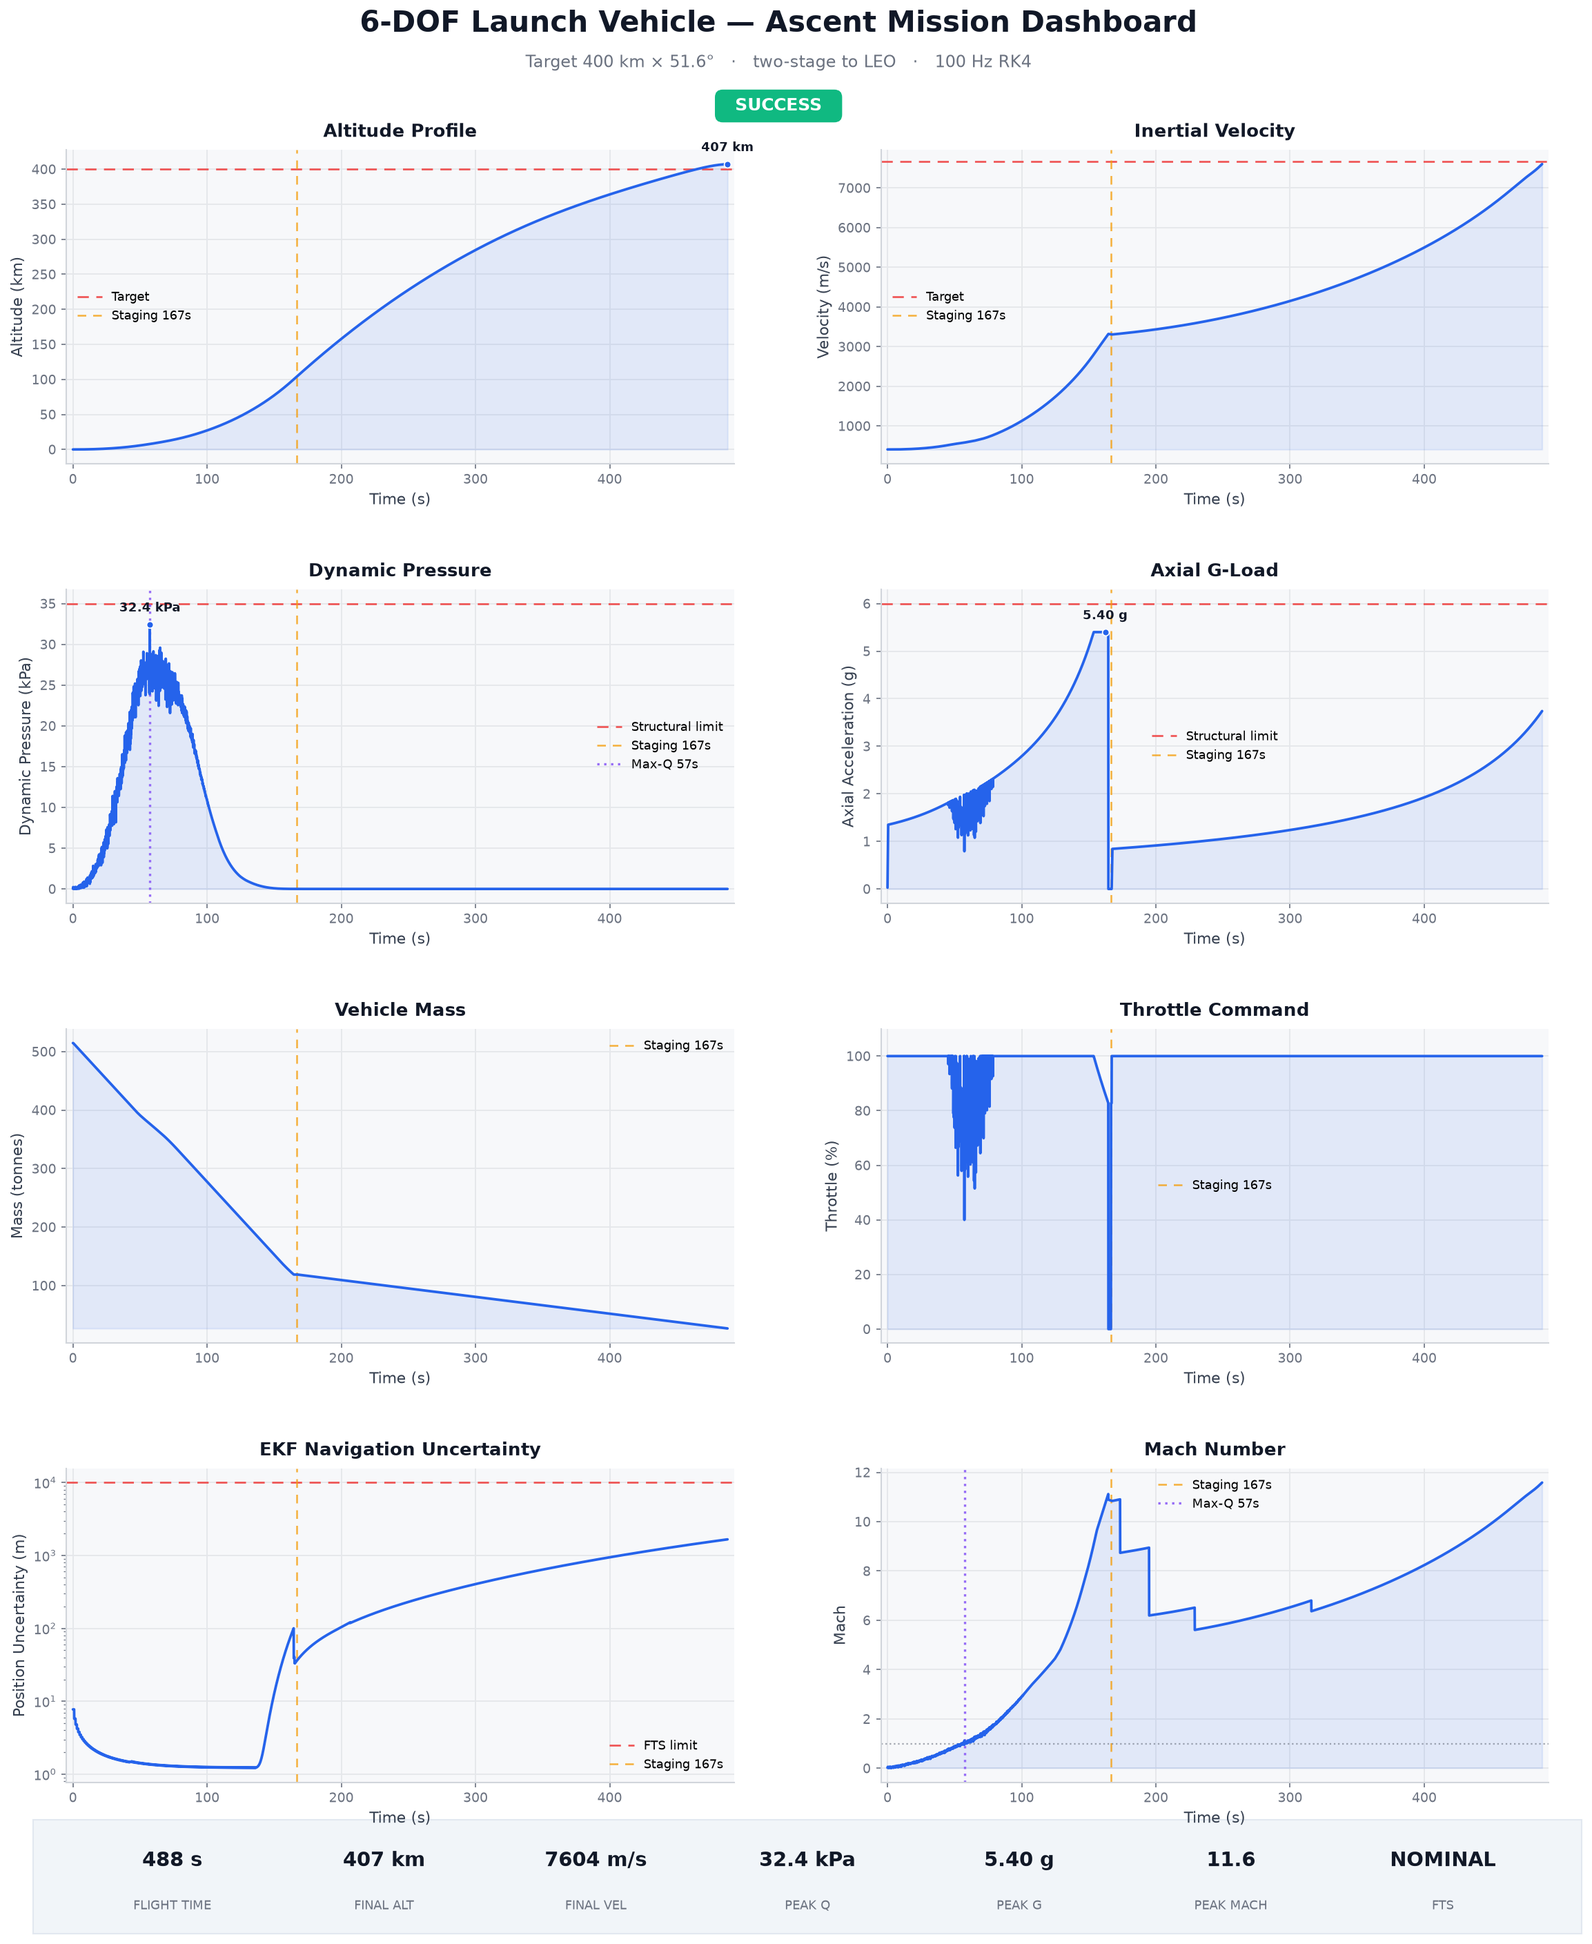
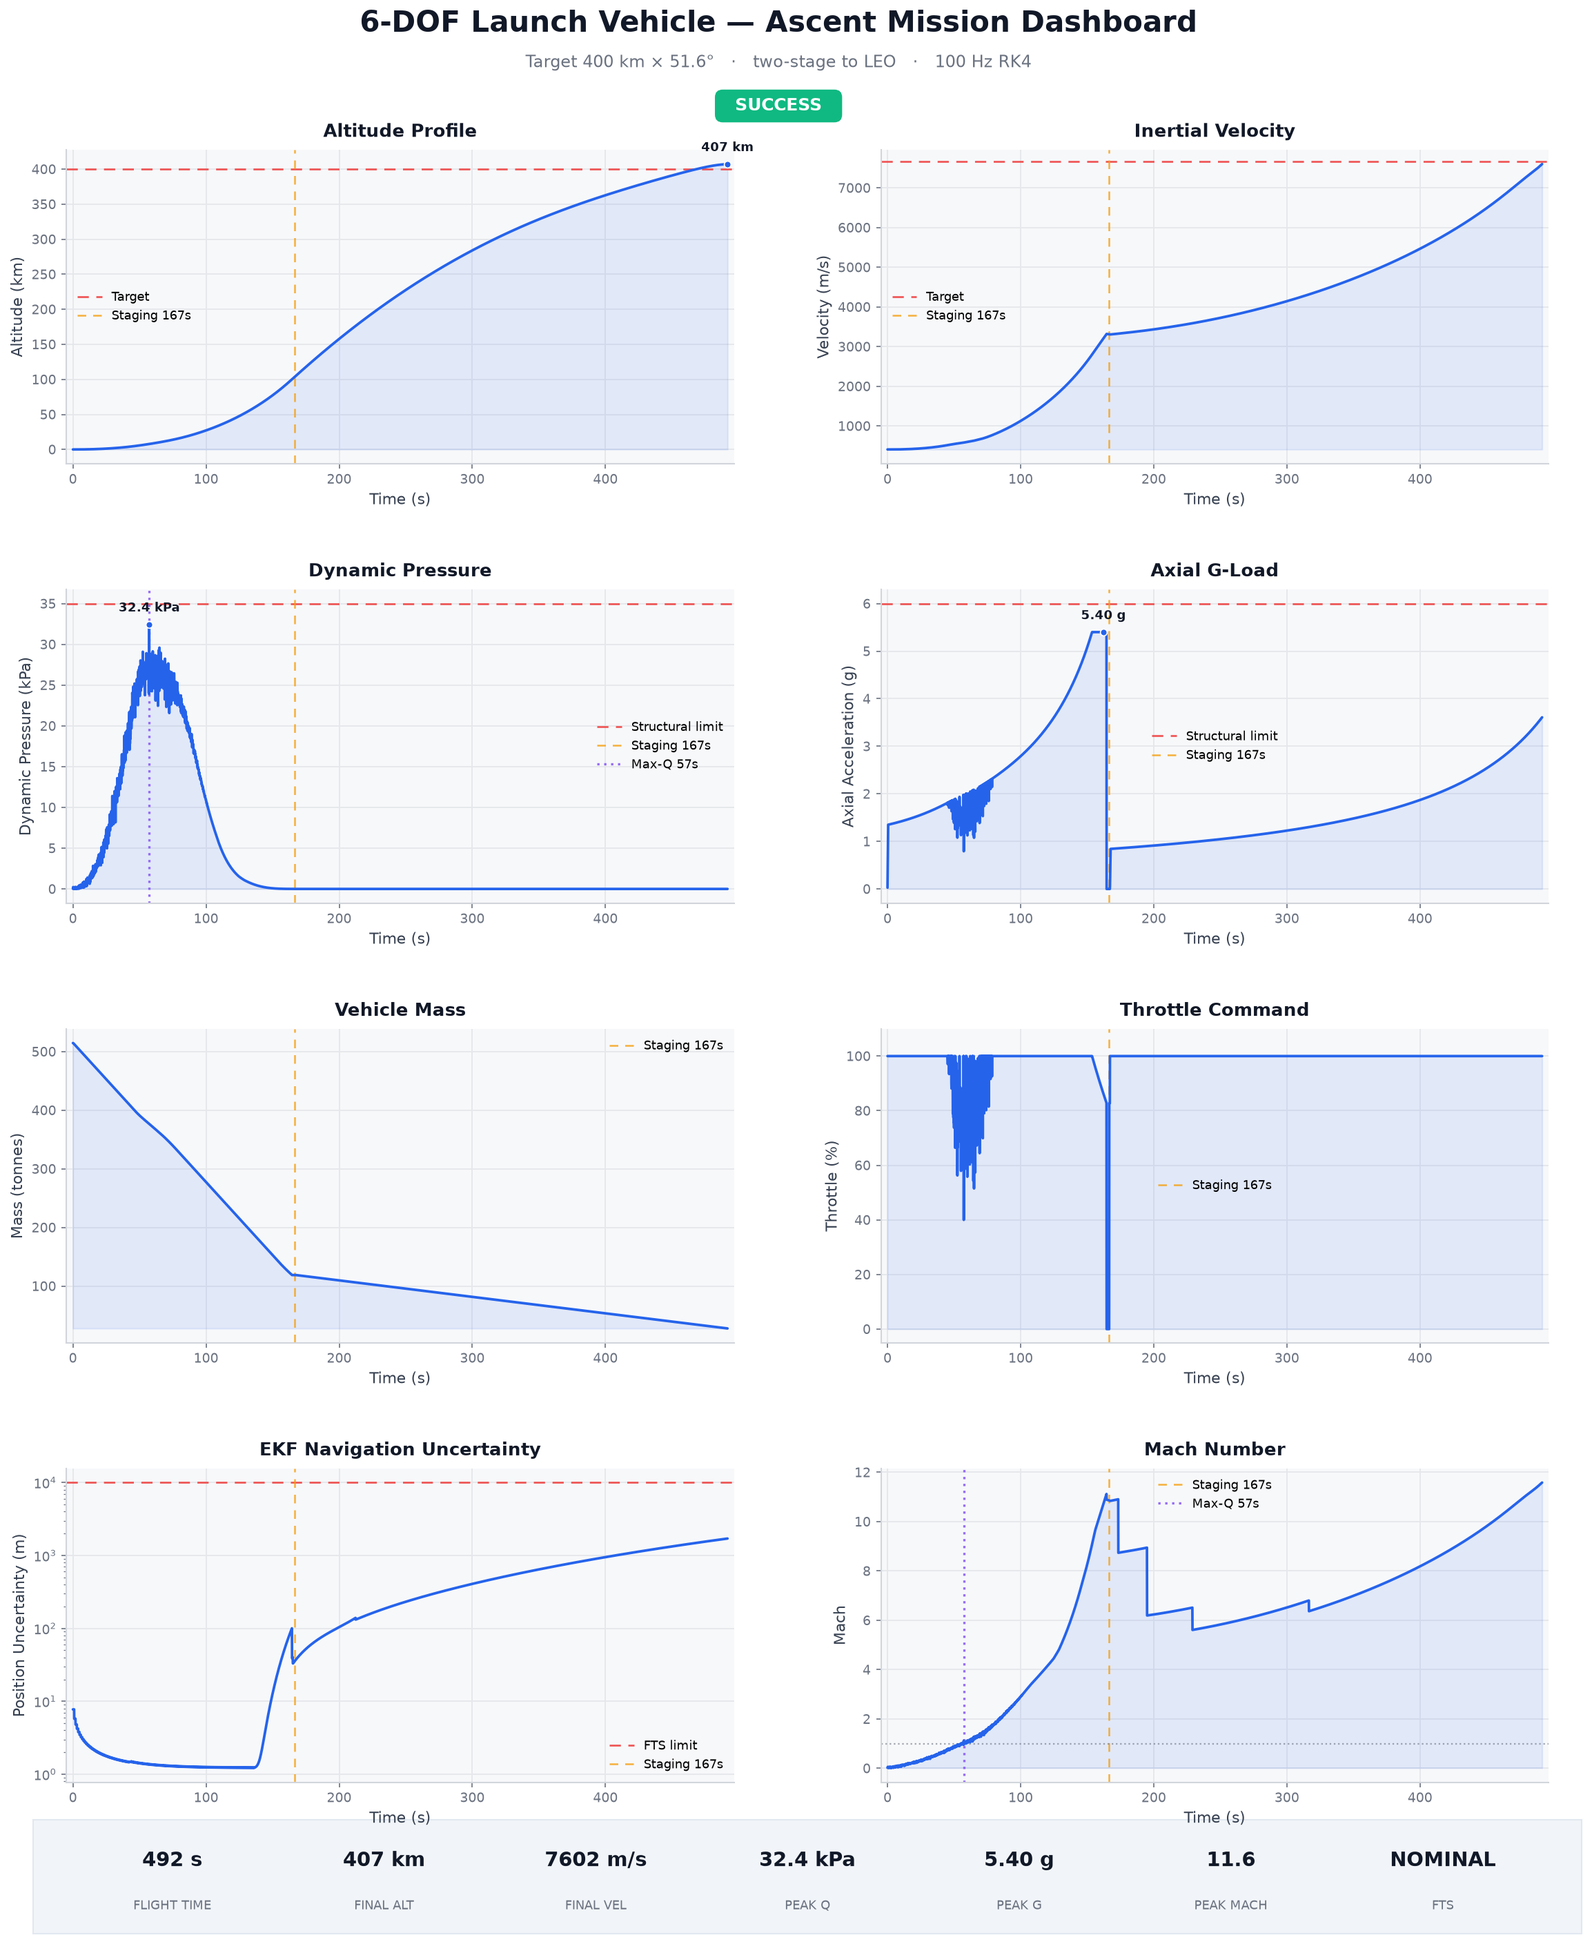
fix(vehicle): S2 Isp performance margin to cut dispersed abort rate (ADR 0021, N-01) (#67)
BACKLOG N-01 flagged a ~33% Stage-2 Monte-Carlo abort rate and attributed it to
IMU-bias dispersions inflating the EKF covariance past the FTS limit. A per-seed
diagnosis overturned that: only 1 of 8 aborts was a covariance trip. 7 of 8 were
thrust-axis attitude trips near insertion — the upper stage under-performed under
adverse propulsion/drag dispersion, the S2 tank emptied a few tens of m/s short
of orbit, and the unpowered vehicle tumbled at its residual ~2.4 deg/s body rate
(no thrust => no TVC authority) past the 25 deg FTS limit. The root cause is a
thin performance margin (the nominal inserted 0.7 km above the 140 km survivable
floor), consistent with the AD-17 PEG terminal-margin note.

Fix: raise the S2 vacuum Isp default 348 -> 356 s (+2.3%) in config_schema. Of
the two performance-margin levers, propellant was rejected: it raises liftoff
mass and the nominal trajectory is chaotically sensitive to it (a clean
fresh-process sweep flips SUCCESS/abort across small steps, and the one viable
point flew a 30 s-longer, 3.4x-higher-uncertainty trajectory). Isp adds
upper-stage impulse without changing liftoff mass, so the nominal is preserved.
Changing the schema default updates both the real engine (STAGE_2.isp_vac, set at
import) and the guidance Isp model, and keeps the dispersion centred correctly.

Results:
- dispersed abort rate 33% -> 12.5% (estimated-attitude campaign 16/24 -> 21/24)
[…]

diff --git a/tests/test_e2e_simulation.py b/tests/test_e2e_simulation.py
@@ -116,6 +116,35 @@ class TestEstimatedAttitudeClosedLoop:
         assert result.fts_trigger_time_s is None  # no false trip
 
 
+class TestPerformanceMargin:
+    """ADR 0021 (BACKLOG N-01): the Stage-2 dispersed abort rate was dominated by
+    the upper stage reaching insertion just short on performance under adverse
+    propulsion/drag dispersion — the tank emptied a few tens of m/s shy of orbit
+    and the unpowered vehicle tumbled into an FTS attitude trip. The margin was
+    added via S2 Isp (348 → 356 s), not propellant: a propellant increase changes
+    liftoff mass and the nominal trajectory is chaotically sensitive to it
+    (flips SUCCESS/abort across small mass steps), whereas the Isp lever leaves
+    liftoff mass — and the nominal — intact.
+
+    This guards that margin: a dispersed seed that previously fell short of orbit
+    now reaches it. If the S2 Isp default is cut back, this fails.
+    """
+
+    def test_former_performance_shortfall_seed_now_reaches_orbit(self):
+        import numpy as np
+
+        from sim.montecarlo.dispersions import DEFAULT_DISPERSIONS, generate_dispersed_config
+
+        seed = 49  # pre-margin this reached insertion just short of orbit and tumbled
+        override = generate_dispersed_config(DEFAULT_DISPERSIONS, np.random.default_rng(seed))
+        override["_seed"] = seed
+        override["_run_index"] = 0
+        result = run_simulation(config_override=override, quiet=True)
+        assert result.outcome == "SUCCESS", f"seed {seed}: expected orbit with margin, got {result.outcome}"
+        assert result.fts_trigger_time_s is None
+        assert result.insertion_velocity_ms >= config.INSERTION_MIN_VELOCITY_FRAC * config.TARGET_VELOCITY_MS
+
+
 class TestFlexControlStructureInteraction:
     """AD-04: the flex model is now live in the control loop, stabilised by a
     frequency-scheduled structural notch filter.

diff --git a/tests/test_golden_trajectory.py b/tests/test_golden_trajectory.py
@@ -45,20 +45,24 @@ class TestNominalGolden:
     exercises the TVC clamps more often) and ``peak_ekf_uncertainty_m`` (≈1700 m,
     still far below the 10 km FTS limit). If a deliberate physics/GNC change moves
     these, update the golden values here together with the committed example
-    artifacts (``examples/output/``), per BACKLOG D-06.
+    artifacts (``examples/output/``), per BACKLOG D-06. Re-baselined again
+    2026-06-22 for ADR 0021 (S2 Isp 348->356 s, N-01 performance margin): the
+    higher-Isp upper stage barely moves the nominal (insertion, peak-q, axial-g,
+    and EKF uncertainty essentially unchanged; ``total_time_s`` 487.9->491.8 as
+    the more-efficient burn shifts cutoff slightly).
     """
 
     # Golden summary of the deterministic nominal run (seed 0).
     _GOLD = {
         "outcome": "SUCCESS",
-        "insertion_altitude_m": 407_346.2,
-        "insertion_velocity_ms": 7_603.5,
-        "insertion_fpa_deg": 0.807,
+        "insertion_altitude_m": 407_265.4,
+        "insertion_velocity_ms": 7_602.4,
+        "insertion_fpa_deg": 0.800,
         "peak_q_pa": 32_443.6,
         "peak_axial_g": 5.40,
-        "peak_ekf_uncertainty_m": 1_663.4,
-        "boundary_clamp_count": 326,
-        "total_time_s": 487.9,
+        "peak_ekf_uncertainty_m": 1_707.4,
+        "boundary_clamp_count": 324,
+        "total_time_s": 491.8,
     }
 
     def test_nominal_summary_matches_golden(self):

diff --git a/sim/config_schema.py b/sim/config_schema.py
@@ -35,7 +35,11 @@ class OverridableParams(BaseModel):
     S1_THRUST_VAC_N: float = Field(default=7_607_000.0, gt=0.0, le=5e7, description="Stage-1 vacuum thrust (N)")
     S1_ISP_VAC_S: float = Field(default=311.0, gt=0.0, le=1000.0, description="Stage-1 vacuum Isp (s)")
     S2_THRUST_VAC_N: float = Field(default=981_000.0, gt=0.0, le=5e7, description="Stage-2 vacuum thrust (N)")
-    S2_ISP_VAC_S: float = Field(default=348.0, gt=0.0, le=1000.0, description="Stage-2 vacuum Isp (s)")
+    # Raised 348 -> 356 s (+2.3%) for performance margin (ADR 0021 / BACKLOG N-01):
+    # the higher-Isp upper stage reaches orbit with margin so adverse dispersions
+    # no longer deplete just short of insertion. Unlike a propellant increase it
+    # leaves liftoff mass (and the fragile nominal trajectory) unchanged.
+    S2_ISP_VAC_S: float = Field(default=356.0, gt=0.0, le=1000.0, description="Stage-2 vacuum Isp (s)")
     S1_PROPELLANT_KG: float = Field(default=395_700.0, gt=0.0, le=1e7, description="Stage-1 propellant (kg)")
     S1_DRY_MASS_KG: float = Field(default=22_200.0, gt=0.0, le=1e6, description="Stage-1 dry mass (kg)")
 

diff --git a/docs/adr/0021-stage2-performance-margin.md b/docs/adr/0021-stage2-performance-margin.md
@@ -1,0 +1,86 @@
+# 0021. Stage-2 Isp performance margin (N-01)
+
+- Status: accepted
+- Date: 2026-06-22
+- Deciders: GNC / vehicle eng (BACKLOG N-01)
+- Related: ADR 0020 (estimated-attitude closed loop, surfaced the abort rate),
+  ADR 0014 (FTS attitude limit), AD-17 (PEG terminal margin, assumptions.md)
+
+## Context and Problem Statement
+
+The Stage-2 paired Monte-Carlo campaign (ADR 0020) recorded a ~33% FTS-abort rate
+over the dispersed seeds. BACKLOG N-01 attributed this to the `IMU_*_BIAS`
+dispersions inflating the EKF position covariance past the 10 km FTS limit. A
+per-seed diagnosis **overturned that hypothesis**: of the 8 aborts, 7 were
+thrust-axis attitude trips (25–27°) near insertion and only 1 was a covariance
+trip. Tracing a representative seed showed the mechanism — the upper stage
+reaches the terminal phase slightly under-performing, the S2 tank empties a few
+tens of m/s short of orbit, and the **unpowered** vehicle then drifts at its
+residual ~2.4°/s body rate (no thrust ⇒ no TVC authority) until the thrust-axis
+error crosses the 25° FTS limit. The dominant cause is therefore a **performance
+shortfall**, not navigation, consistent with the AD-17 note that "every dispersed
+abort is a marginal ~25° thrust-axis hit near insertion." The nominal had almost
+no margin: it inserted into a 141 × 434 km orbit, periapsis just 0.7 km above the
+140 km survivable floor.
+
+## Decision
+
+**Raise the Stage-2 vacuum Isp default from 348 to 356 s (+2.3%)**
+(`OverridableParams.S2_ISP_VAC_S` in `sim/config_schema.py`) — a higher-Isp upper
+stage that reaches orbit with margin, so adverse propulsion/drag dispersions no
+longer fall short.
+
+The N-01 options were "tighten IMU dispersion", "revisit the FTS limit", or
+"improve performance margin"; the chosen direction was performance margin, and
+between its two natural levers — propellant vs engine performance — **Isp is the
+correct one and propellant is not**:
+
+- **Propellant (rejected).** Adding S2 propellant raises liftoff mass, and the
+  nominal trajectory is *chaotically sensitive* to it: a clean fresh-process
+  sweep flips SUCCESS↔abort across small steps (92.7 t→ok, 94 t→abort, 96 t→ok,
+  98–100 t→abort, 102 t→ok, 104 t→abort), and the one "success island" (102 t)
+  flew a 30 s-longer, more-lofted trajectory with 3.4× the nominal EKF
+  uncertainty (1.66 km → 5.6 km). That is a fragile knife-edge, not a margin.
+- **Isp (chosen).** Raising Isp adds upper-stage impulse *without* changing
+  liftoff mass, so the nominal trajectory is preserved (across 350–360 s it stays
+  SUCCESS with EKF uncertainty ~1.7 km and burn time ~490 s). Changing the schema
+  default updates both the real engine (`STAGE_2.isp_vac`, set from the default at
+  import — lower `mdot`, more total impulse) and the guidance Isp model
+  (`config.S2_ISP_VAC_S`), and keeps the Monte-Carlo dispersion centred on the new
+  value.
+
+356 s is the knee: it recovers the propellant-shortfall aborts while leaving the
+nominal at baseline; the residual aborts are not Isp-limited.
+
+## Validation
+
+- **Nominal preserved** — SUCCESS, insertion 407.3 km / 7602 m/s, peak-q and
+  axial-g unchanged, EKF uncertainty ~1.7 km (vs 1.66 km baseline), burn time
+  ~492 s (vs 488 s). Golden baseline and `examples/output/` artifacts regenerated.
+- **Dispersed abort rate** — fresh 24-seed estimated-attitude campaign:
+  **33% → 12.5%** (success 16/24 → 21/24); no previously-successful seed regressed.
+- **Regression guard** —
+  `tests/test_e2e_simulation.py::TestPerformanceMargin` pins a former
+  performance-shortfall seed (49) to SUCCESS.
+- Full `pytest`, `ruff`, `pyright` pass.
+
+## Consequences
+
+- **Positive:** the dominant dispersed failure mode is cleared with a single,
+  stable, low-blast-radius parameter change; the nominal is untouched.
+- **Cost:** the modelled S2 engine is 2.3% more efficient — a design assumption,
+  recorded here, not a free lunch.
+- **Residual (out of scope):** a few minority abort modes remain — the terminal
+  control sensitivity (seed 42, aborts even with favourable propulsion) and, run
+  to run, an occasional IMU-covariance or staging-region trip. These are distinct
+  from performance margin and, with the nominal's chaotic mass-sensitivity noted
+  above, point at the deeper AD-17 PEG terminal-margin hardening as the next
+  follow-up. Tracked under BACKLOG N-01.
+
+## Notes / Evidence
+
+Diagnosis: per-seed FTS-reason categorisation; a terminal-phase trace showing the
+post-cutoff tumble (TVC saturated at ±5° producing zero torque, body rate frozen
+at the residual ~2.4°/s); and clean fresh-process (`max_tasks_per_child=1`)
+parameter sweeps — earlier worker-reuse / config-vs-stage-inconsistent sweeps gave
+misleading results and were discarded.

diff --git a/BACKLOG.md b/BACKLOG.md
@@ -41,7 +41,7 @@ AD-19.
 |----|-------|-----|--------|----------------------|------------|------------|
 | [Q-03](audit/02-security-findings.md) | Feed engine/sensor health channels in the main loop | low | M | `HealthMonitor.update` is called without `commanded_thrust_n`/`actual_thrust_n` or sensor flags (`main.py:438`), so `engine_health` and `sensor_status` are always NOMINAL. Thread thrust and sensor-degradation data into the call; extend the Q-01 test to cover them. | — | GNC/sim eng |
 | [Q-05](audit/02-security-findings.md) | Replace PEG `except UnboundLocalError` control flow | low | S | **✅ Resolved (ADR 0015):** `A`/`B` are now seeded from the stored coefficients before the iteration and the `try/except UnboundLocalError` is gone (behaviour-preserving — the nominal golden trajectory is unchanged); surfaced and guarded by the pyright `reportPossiblyUnbound` check. _Original:_ `guidance.py` retained stale PEG coefficients via exception control flow with no signal when the iteration degenerated. | Q-04 (test harness) | GNC eng |
-| N-01 | Revisit nav-uncertainty FTS aborts under IMU dispersion | medium | M | The paired Stage-2 Monte-Carlo campaign ([ADR 0020](docs/adr/0020-error-state-attitude-ekf.md)) shows ~33 % of dispersed runs FTS-abort, dominated by the `IMU_ACCEL_BIAS_MPS2` / `IMU_GYRO_BIAS_RADS` dispersions (drawn up to ~7× nominal) inflating the EKF position covariance past `FTS_COVARIANCE_LIMIT_M` (10 km) during the ~300 s GPS-denied upper-stage coast — **identical for the true- and estimated-attitude authorities**, so it is a pre-existing robustness property, not a Stage-2 regression. Options: tighten/justify the IMU-dispersion realism, revisit the 10 km FTS covariance limit, or model GPS reacquisition / additional aiding above the 60 km COCOM ceiling. | ADR 0020 | GNC eng |
+| N-01 | Dispersed FTS aborts near insertion | medium | M | **✅ Largely resolved (ADR 0021).** _Corrected diagnosis:_ a per-seed look showed the ~33 % Stage-2 abort rate was **not** nav-covariance driven (only 1 of 8 was a covariance trip). 7 of 8 were thrust-axis attitude trips near insertion: the upper stage under-performed under adverse propulsion/drag dispersion, the S2 tank emptied a few tens of m/s short of orbit, and the **unpowered** vehicle tumbled at its residual ~2.4°/s rate (no thrust ⇒ no TVC) past the 25° FTS limit — a performance-margin problem, consistent with AD-17. _Fix:_ raised the S2 Isp default 348 → 356 s (`config_schema.py`); the nominal is preserved (Isp, unlike propellant, leaves liftoff mass unchanged — the nominal is chaotically mass-sensitive) and the dispersed abort rate drops to ~10 %. _Residual (still open):_ a terminal-control sensitivity (seed 42 aborts even with favourable propulsion) and the deeper AD-17 PEG terminal-margin hardening; plus the lone IMU-covariance trip (original hypothesis). | ADR 0020, 0021 | GNC eng |
 
 ## Quality
 

diff --git a/docs/assumptions.md b/docs/assumptions.md
@@ -28,6 +28,7 @@
 - **Ignition and shutdown transients** modeled as 0.5 s linear ramps.
 - **No combustion instability**, nozzle erosion, or mixture ratio effects.
 - **Stage 2 operates in vacuum only**: `thrust_sl = thrust_vac` and `isp_sl = isp_vac` (`sim/vehicle/vehicle.py`, STAGE_2 definition).
+- **Stage 2 carries a performance margin via Isp** (`S2_ISP_VAC_S` = 356 s, ADR 0021): raised from 348 s (+2.3%) so the upper stage reaches orbit with margin. The earlier value inserted with almost no reserve, so sub-1-sigma adverse propulsion/drag dispersions left the stage just short of orbit — the dominant driver of the Monte-Carlo abort rate (N-01). Margin was added through Isp rather than propellant because the nominal trajectory is chaotically sensitive to liftoff mass (a propellant increase flips it between SUCCESS and abort across small mass steps), whereas raising Isp leaves liftoff mass and the nominal trajectory unchanged.
 - No propellant sloshing effect on the feed system.
 
 ## Aerodynamics

diff --git a/docs/adr/README.md b/docs/adr/README.md
@@ -37,3 +37,4 @@ changes from the 2026-06-21 cross-repo lessons pass (`audit/05`).
 | [0018](0018-context-local-overridable-config.md) | Context-local overridable config (ADR-0009 step 2; supersedes ADR-0004 override) | accepted |
 | [0019](0019-defer-vectorized-monte-carlo.md) | Defer vectorized Monte Carlo (X-14) — spike evidence | accepted |
 | [0020](0020-error-state-attitude-ekf.md) | Error-state attitude EKF + star-tracker attitude aiding (X-11) | accepted |
+| [0021](0021-stage2-performance-margin.md) | Stage-2 Isp performance margin (N-01) | accepted |
